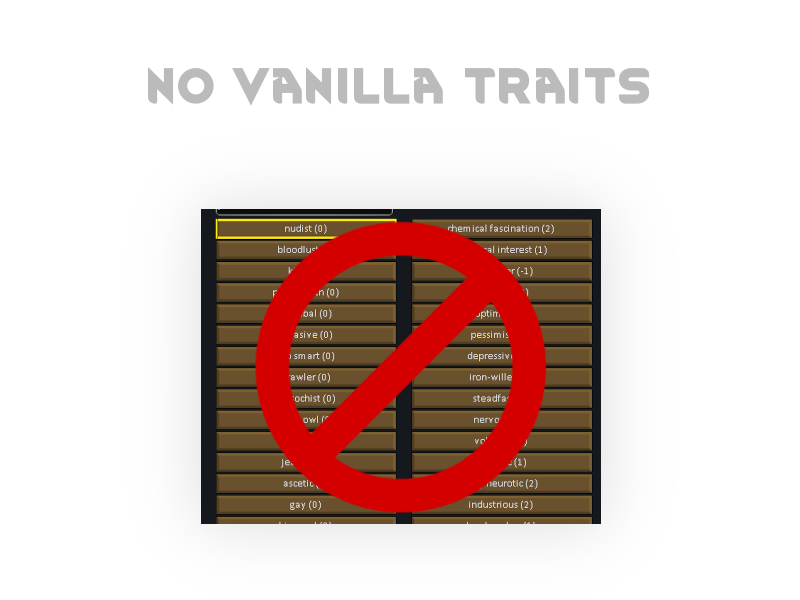
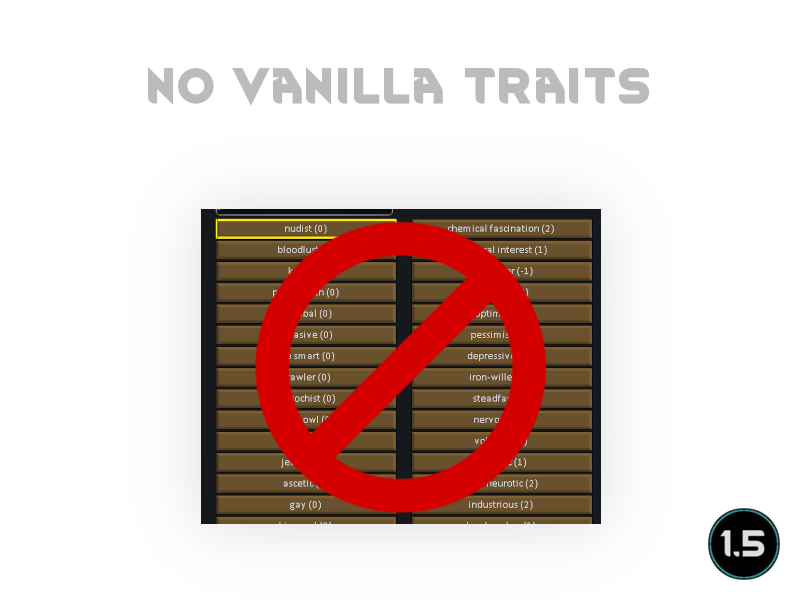
Mod updated for 1.5 and passed autotests

Changed region(s): [[0.875, 0.84, 1.0, 0.99]]

diff --git a/README.md b/README.md
@@ -1,6 +1,6 @@
 # NoVanillaTraits
 
-![Image](https://i.imgur.com/buuPQel.png)
+![Image](https://i.imgur.com/iCj5o7O.png)
 
 
 Just a simple patch-mod that sets all vanilla traits to commonality 0. 
@@ -13,24 +13,26 @@ Defs are still there as there are some backstories that forces some traits.
 Will give errors that commonality is set to 0 if Develpoment mode is active, this can be ignored.
 Game will not load map if there are no added traits loaded as it will not be able to generate pawns.
 
-![Image](https://i.imgur.com/O0IIlYj.png)
+![Image](https://i.imgur.com/Ds0rBAD.png)
 
 Since modding is just a hobby for me I expect no donations to keep modding. If you still want to show your support you can gift me anything from my https://store.steampowered.com/wishlist/id/Mlie]Wishlist or buy me a cup of tea.
 
-https://ko-fi.com/G2G55DDYD]![Image](https://i.imgur.com/Utx6OIH.png)
+https://ko-fi.com/G2G55DDYD]![Image](https://i.imgur.com/VWG0yff.png)
 
 
-![Image](https://i.imgur.com/PwoNOj4.png)
+![Image](https://i.imgur.com/5xwDG6H.png)
 
 
 
 -  See if the the error persists if you just have this mod and its requirements active.
 -  If not, try adding your other mods until it happens again.
--  Post your error-log using https://steamcommunity.com/workshop/filedetails/?id=818773962]HugsLib and command Ctrl+F12
+-  Post your error-log using https://steamcommunity.com/workshop/filedetails/?id=818773962]HugsLib or the standalone https://steamcommunity.com/sharedfiles/filedetails/?id=2873415404]Uploader and command Ctrl+F12
 -  For best support, please use the Discord-channel for error-reporting.
 -  Do not report errors by making a discussion-thread, I get no notification of that.
 -  If you have the solution for a problem, please post it to the GitHub repository.
+-  Use https://github.com/RimSort/RimSort/releases/latest]RimSort to sort your mods
 
 
 
+https://steamcommunity.com/sharedfiles/filedetails/changelog/2210303918]![Image](https://img.shields.io/github/v/release/emipa606/NoVanillaTraits?label=latest%20version&style=plastic&labelColor=0070cd&color=white)
 
